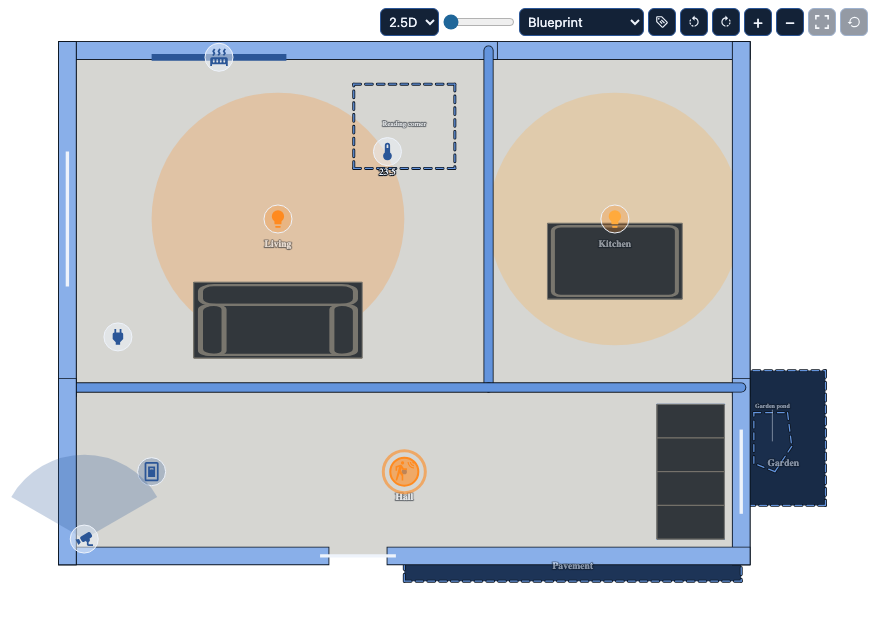
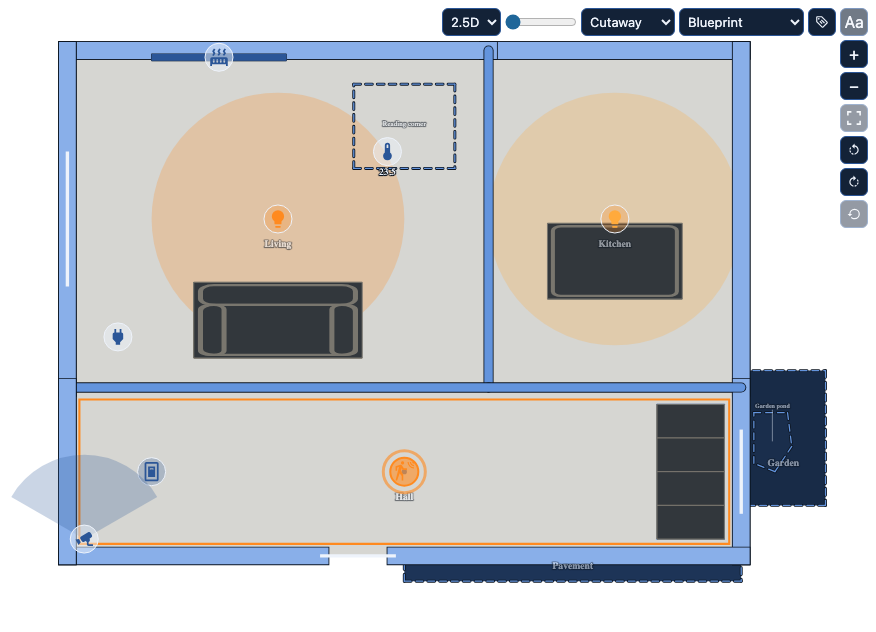
README: add a 3D card shot and the editor's room panel
The doc-shots script draws both from the demo house, like the others. The old shots are redrawn from the current build.

diff --git a/README.md b/README.md
@@ -13,6 +13,10 @@ Assistant every day.
 |---|---|---|
 | ![The card: the demo ground floor, two lights and the hall motion sensor on.](docs/img/card-overview.png) | ![The same card at phone width: the Active list starts folded.](docs/img/card-phone.png) | ![The editor with the demo house loaded.](docs/img/editor-overview.png) |
 
+| The card in 3D | The editor, a room selected |
+|---|---|
+| ![The demo house in the 3D view: cutaway walls, lamps casting light, the Active list on the left.](docs/img/card-3d.png) | ![The editor with a room selected: Delete under the name, the temperature, humidity and motion sensor pickers each in a framed box.](docs/img/editor-room-panel.png) |
+
 A real house, on the card in 2.5D, three themes (room and device names blurred):
 
 | Home Assistant theme | Cyberpunk theme | Space theme, first floor |
